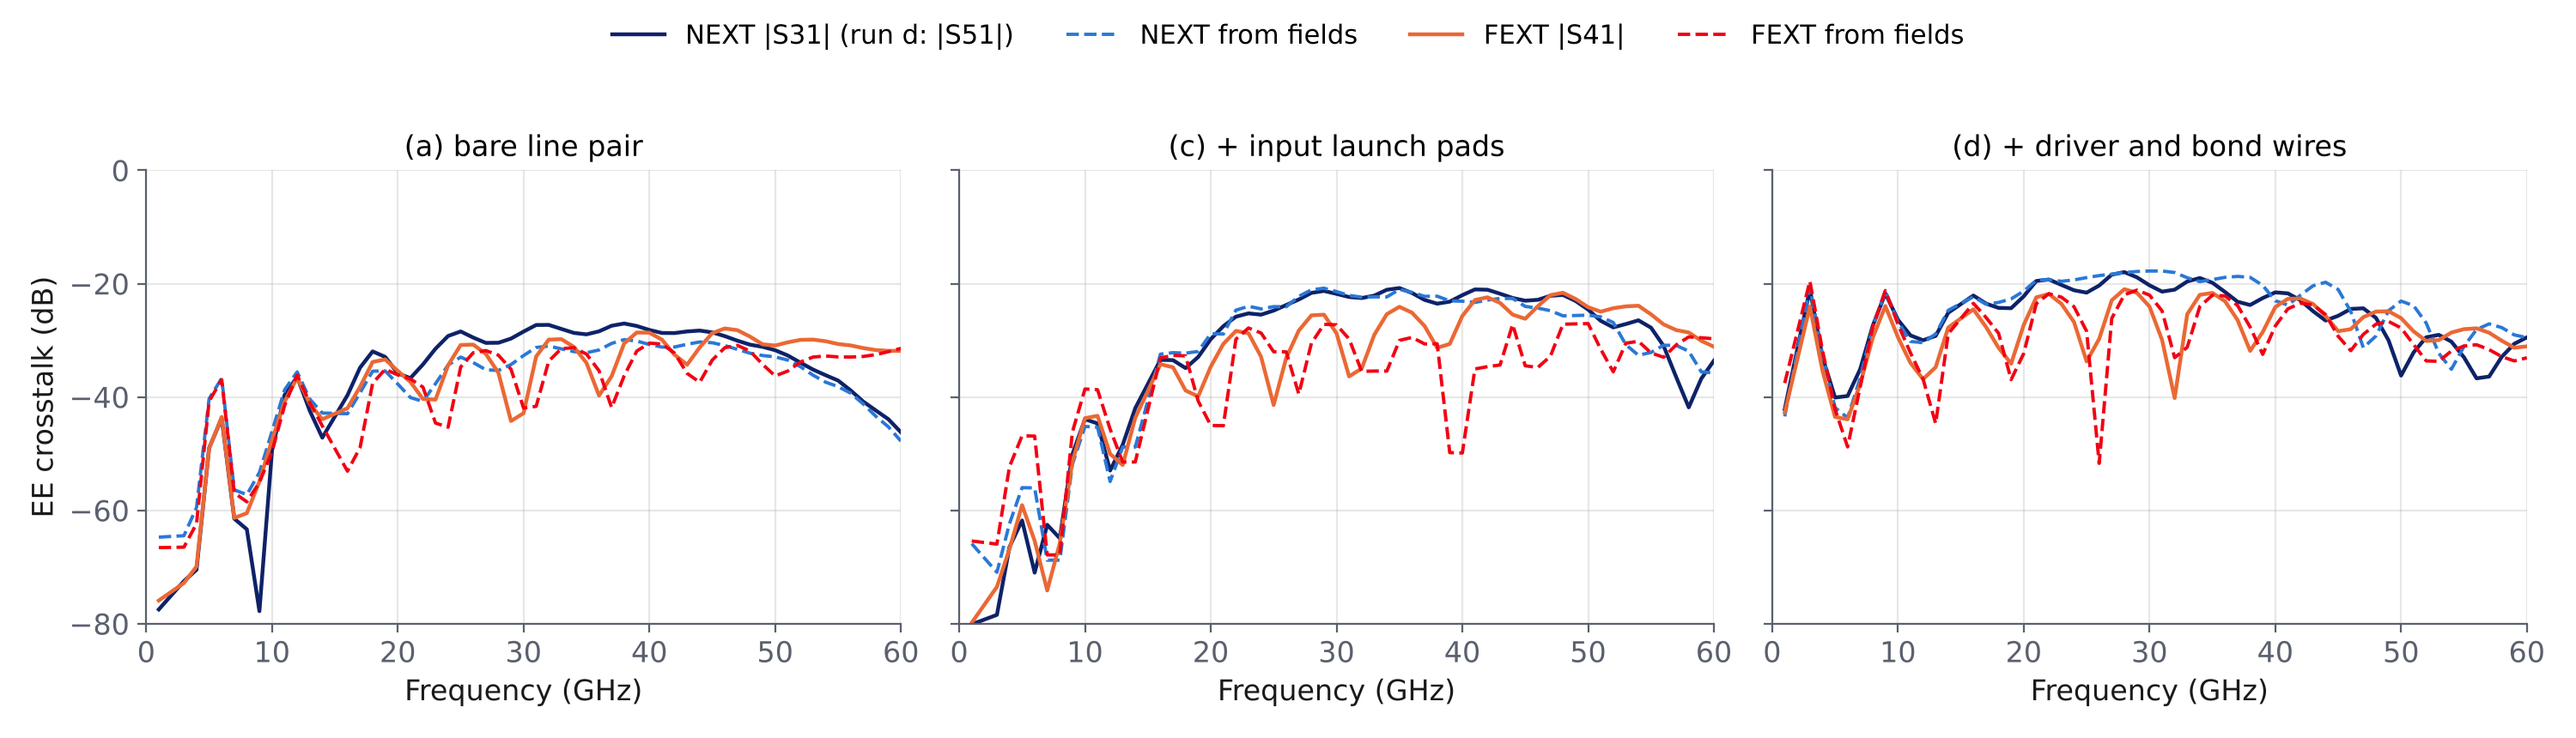
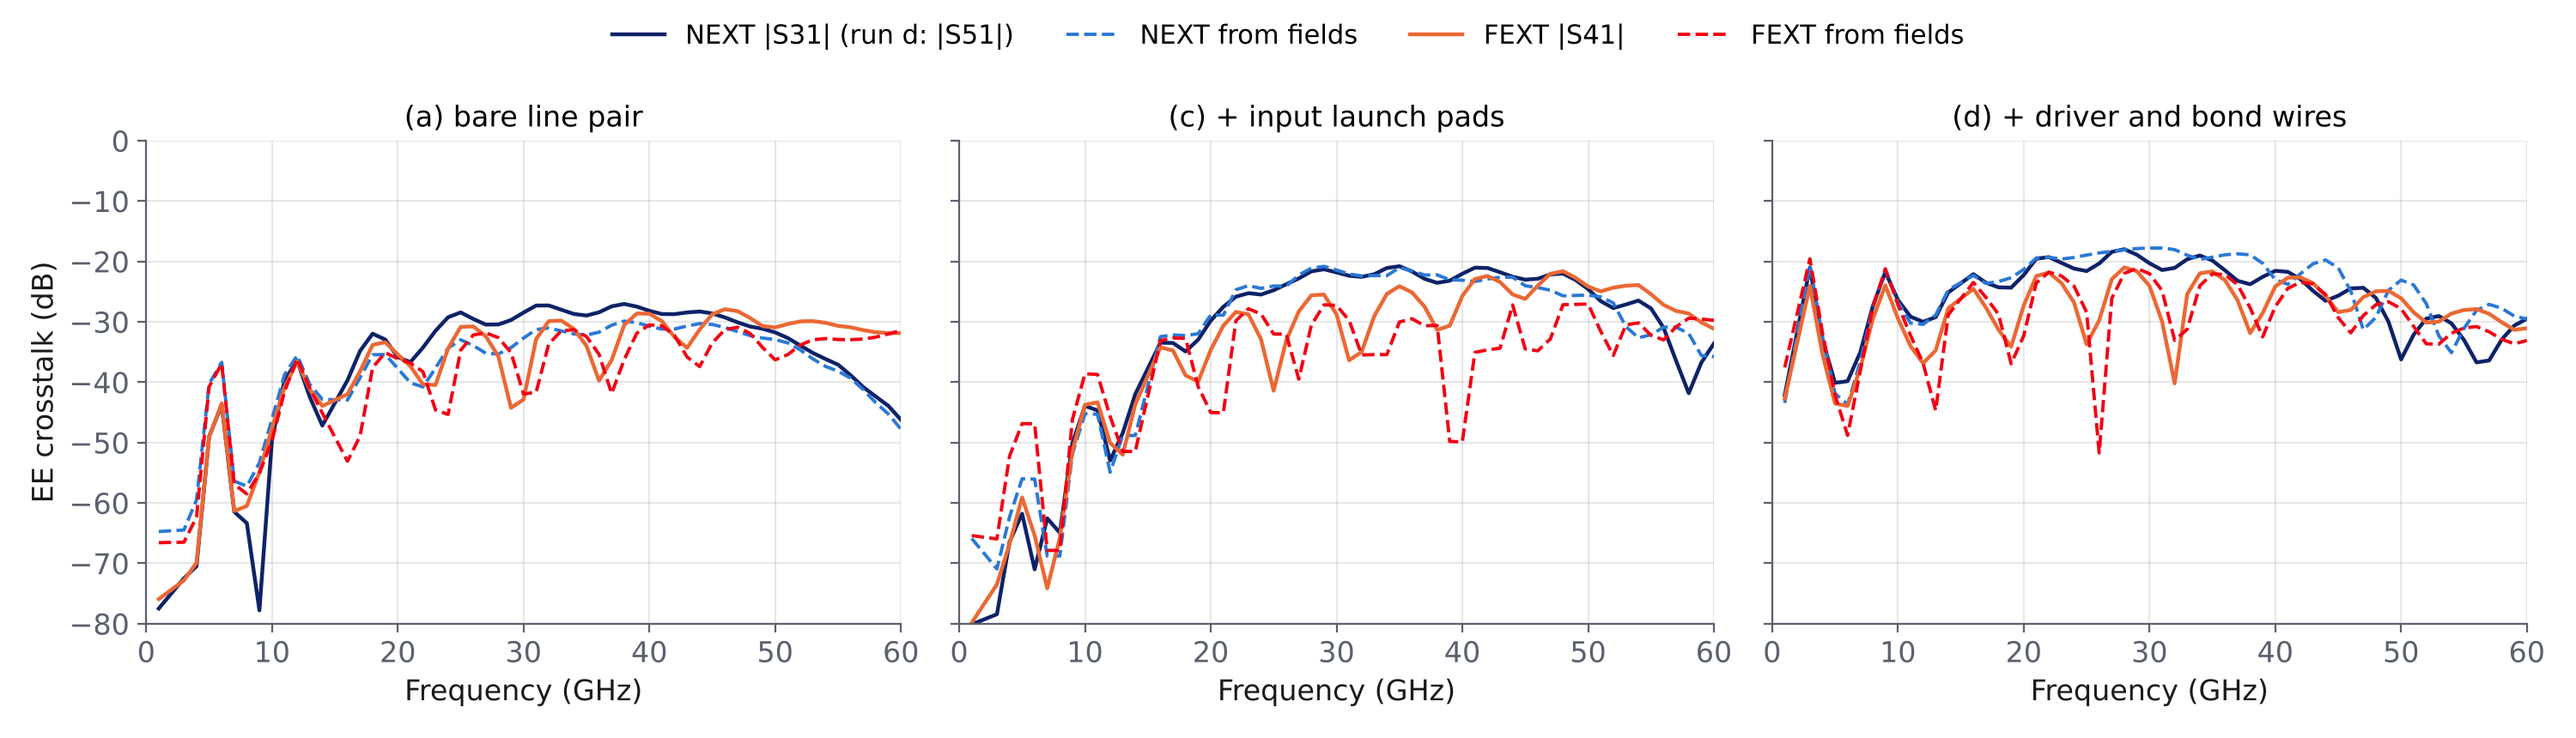
Istanbul deck source: slide 13 with port sketch and rendered NEXT/FEXT field equations
Claude-Session: https://claude.ai/code/session_01PF7RKNjFsSkyjm1syGCUrV

diff --git a/docs/cst/xtalk/deck/build_istanbul.py b/docs/cst/xtalk/deck/build_istanbul.py
@@ -225,11 +225,15 @@ note(s, "S route: only port 1 is excited in the runs; the uniform-pair symmetrie
 
 # R2 --------------------------------------------------------------- review: EE crosstalk
 s = new(); title(s, "EE crosstalk: S-parameters and fields agree", "NEXT and FEXT of runs a, c, d from the touchstone and from the field at the line ends")
-fig(s, "review_ee.png", 0.5, 1.5, 12.35, 3.55, "NEXT and FEXT from S-parameters and from fields")
-card(s, 0.5, 5.2, 4.0, 1.75, "Definition", ["Aggressor driven at port 1, all ports matched: NEXT = S_{31}, FEXT = S_{41} (victim wave at its near and far end per incident wave)."], size=10.5)
-card(s, 4.67, 5.2, 4.0, 1.75, "From fields", ["A matched port without incident wave has V_{j} = b_{j}√Z_{0}: S_{31} = S_{21}·V_{B}(0)/V_{A}(L), S_{41} = S_{21}·V_{B}(L)/V_{A}(L), with the voltage ratios from the fields."], size=10.5)
-table(s, 8.84, 5.2, 4.01, [["Field − S, median", "NEXT", "FEXT"], ["(a) bare line", "−2.0 dB", "−1.7 dB"], ["(c) + pads", "−0.1 dB", "−2.6 dB"], ["(d) + driver", "+0.7 dB", "−1.1 dB"]], [1.81, 1.1, 1.1], size=10.5, row_h=0.4)
-note(s, "Point-by-point scatter 2-6 dB: ripple shifts and the accuracy of a victim 30-60 dB below the aggressor (solver -40 dB, one sample per gap). In (c) and (d) the S-parameter NEXT is at the pad or driver port, the field value at the line input: the levels still agree. EE crosstalk is a port quantity: the S-parameters give it directly.")
+fig(s, "review_ee.png", 0.92, 1.42, 11.51, 3.3, "NEXT and FEXT from S-parameters and from fields")
+fig(s, "ports_sketch.png", 0.5, 5.05, 3.2, 1.68, "Port 1 driven; field voltages read at the three other line ends")
+text(s, 3.95, 4.85, 5.0, 0.5, "**From the fields:** voltages at the line ends (fit over the last 0.3 mm). Ports 2, 3, 4 receive no wave, so their voltage is the outgoing wave:", size=11)
+y_ = 5.4
+for nm in ("eq13_port", "eq13_next", "eq13_fext"):
+    H_ = Image.open(os.path.join(IMG, nm + ".png")).size[1]; eqimg(s, nm, 4.2, y_, H_ * 0.0029); y_ += H_ * 0.0029 + 0.05
+text(s, 3.95, y_ - 0.02, 5.0, 0.3, "The field scale cancels in the ratios; |S_{21}| refers them to the incident wave.", size=10, color=MUTED)
+table(s, 9.15, 4.95, 3.7, [["Field − S, median", "NEXT", "FEXT"], ["(a) bare line", "−2.0 dB", "−1.7 dB"], ["(c) + pads", "−0.1 dB", "−2.6 dB"], ["(d) + driver", "+0.7 dB", "−1.1 dB"]], [1.7, 1.0, 1.0], size=10.5, row_h=0.4)
+note(s, "Point-by-point scatter 2-6 dB: ripple shifts and the accuracy of a victim 30-60 dB below the aggressor (solver -40 dB, one sample per gap). In (c) the S-parameter NEXT is at the pad port, in (d) at the driver port of line B (S51); the field value is at the line input: the levels still agree. EE crosstalk is a port quantity: the S-parameters give it directly.")
 
 # R3 --------------------------------------------------------------- review: EO crosstalk
 s = new(); title(s, "EO crosstalk: the S-parameter route fails on the victim", "X = H[V_{B}] / H[V_{A}], H[V] = (1/L) ∫ V(z) exp(jβ_{o}(z − L)) dz, with V(z) from S or from the fields")

diff --git a/docs/cst/xtalk/deck/slide5_fig.py b/docs/cst/xtalk/deck/slide5_fig.py
@@ -60,3 +60,20 @@ EQ.update({"eq12_mode": r"$\cosh\gamma_m L = \dfrac{A_m + D_m}{2},\qquad Z_m = \
 for k, v in EQ.items():
     f = plt.figure(figsize=(0.1, 0.1)); f.text(0, 0, v, fontsize=22, color="#1A1A1A")
     f.savefig(os.path.join(OUT, k + ".png"), dpi=200, bbox_inches="tight", pad_inches=0.05, transparent=True); plt.close(f)
+
+# slide 13: port sketch and NEXT/FEXT from the fields
+fig, a = plt.subplots(figsize=(3.6, 2.0)); a.set_xlim(-1.6, 11.6); a.set_ylim(-0.6, 5.0); a.axis("off")
+for y, lab, c in ((3.4, "A", NAVY), (1.0, "B", ORANGE)):
+    a.plot([0, 10], [y, y], color=c, lw=3); a.text(5, y + 0.4, f"line {lab}", ha="center", fontsize=10, color=c, weight="bold")
+for x, y, t, col in ((0, 3.4, "1\ndriven", NAVY), (10, 3.4, "2", MUTED), (0, 1.0, "3", MUTED), (10, 1.0, "4", MUTED)):
+    a.plot(x, y, "s", color=col, ms=9); a.text(x + (-0.5 if x == 0 else 0.5), y, t, ha="right" if x == 0 else "left", va="center", fontsize=9.5, color=col)
+for x, y, t in ((10, 3.4, "V$_A$(L)"), (0, 1.0, "V$_B$(0)"), (10, 1.0, "V$_B$(L)")):
+    a.plot(x, y, "o", color=RED, ms=6, zorder=5); a.text(x, y - 0.65, t, ha="center", fontsize=10, color=RED)
+a.text(5, -0.45, "z = 0 … L", ha="center", fontsize=9, color=MUTED)
+fig.savefig(os.path.join(OUT, "ports_sketch.png"), dpi=200, bbox_inches="tight", pad_inches=0.02, transparent=True); plt.close(fig)
+EQ2 = {"eq13_port": r"$a_j = 0\ (j = 2, 3, 4)\;\Rightarrow\; V_j = b_j\sqrt{Z_0}$",
+       "eq13_next": r"$\mathrm{NEXT} = |S_{31}| = |S_{21}|\;\left|\dfrac{V_B(0)}{V_A(L)}\right|$",
+       "eq13_fext": r"$\mathrm{FEXT} = |S_{41}| = |S_{21}|\;\left|\dfrac{V_B(L)}{V_A(L)}\right|$"}
+for k, v in EQ2.items():
+    f = plt.figure(figsize=(0.1, 0.1)); f.text(0, 0, v, fontsize=22, color="#1A1A1A")
+    f.savefig(os.path.join(OUT, k + ".png"), dpi=200, bbox_inches="tight", pad_inches=0.05, transparent=True); plt.close(f)

diff --git a/docs/cst/xtalk/deck/review_figs.py b/docs/cst/xtalk/deck/review_figs.py
@@ -46,7 +46,7 @@ for k, r in enumerate("acd"):
     for lab, s, fl in (("NEXT", d["S31"], d["NEXT_f"]), ("FEXT", d["S41"], d["FEXT_f"])):
         e = dB(fl)-dB(s); print(r, lab, "field - S, 5-60 GHz: median %+.1f, mean |diff| %.1f dB" % (np.median(e[m5]), np.mean(abs(e[m5]))))
 ax[0].set_ylabel("EE crosstalk (dB)")
-top_legend(fig, ax, ncol=5, top=0.86); fig.savefig(os.path.join(OUT, "review_ee.png"), dpi=200); plt.close(fig)
+top_legend(fig, ax, ncol=5, top=0.9); fig.savefig(os.path.join(OUT, "review_ee.png"), dpi=200); plt.close(fig)
 
 # EO crosstalk: S-parameter route vs fields
 fig, ax = plt.subplots(1, 3, figsize=(15, 4.3), sharey=True)
